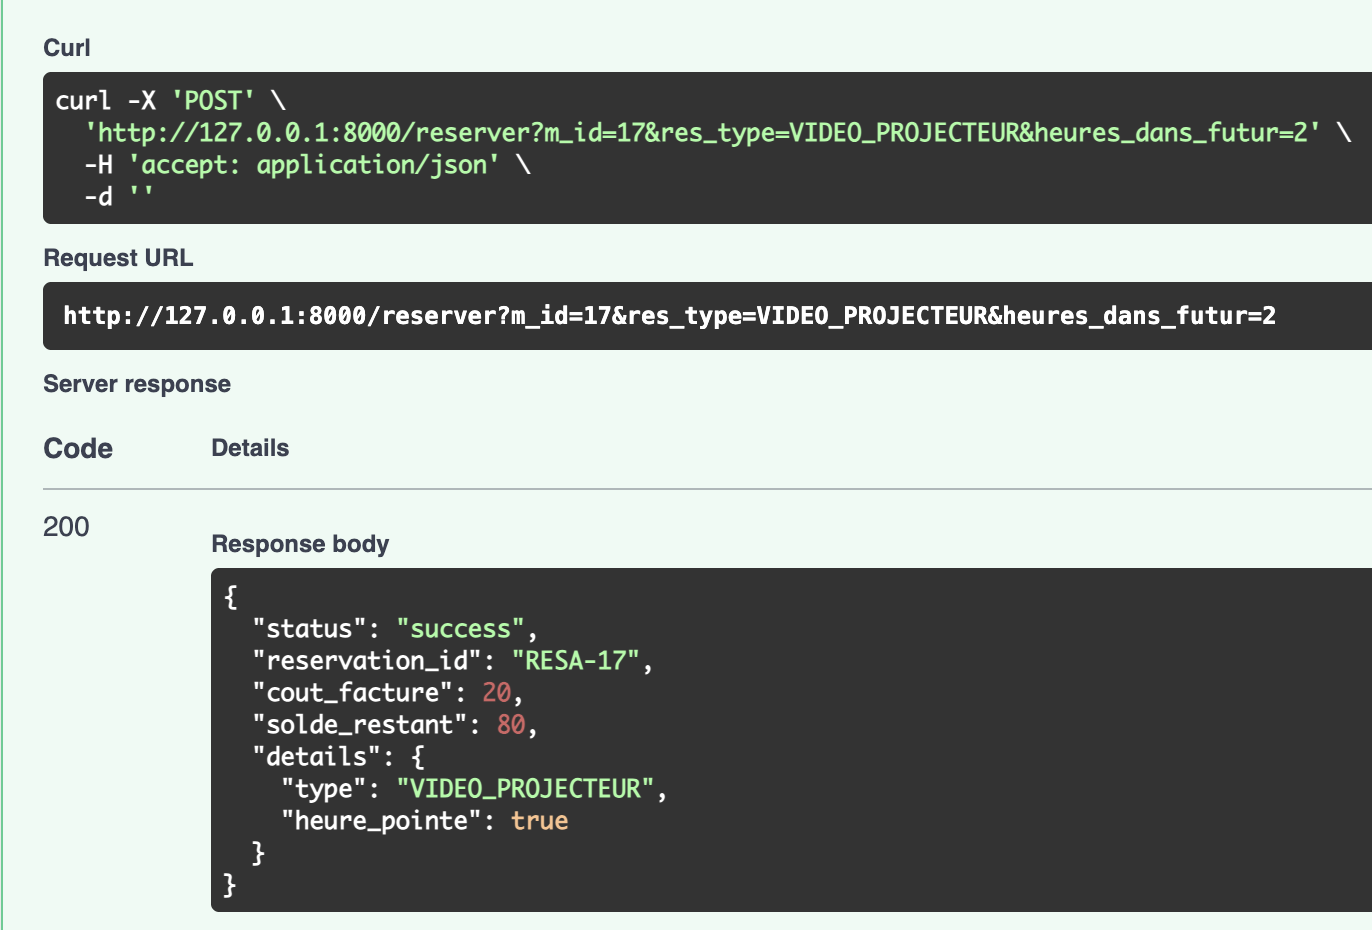
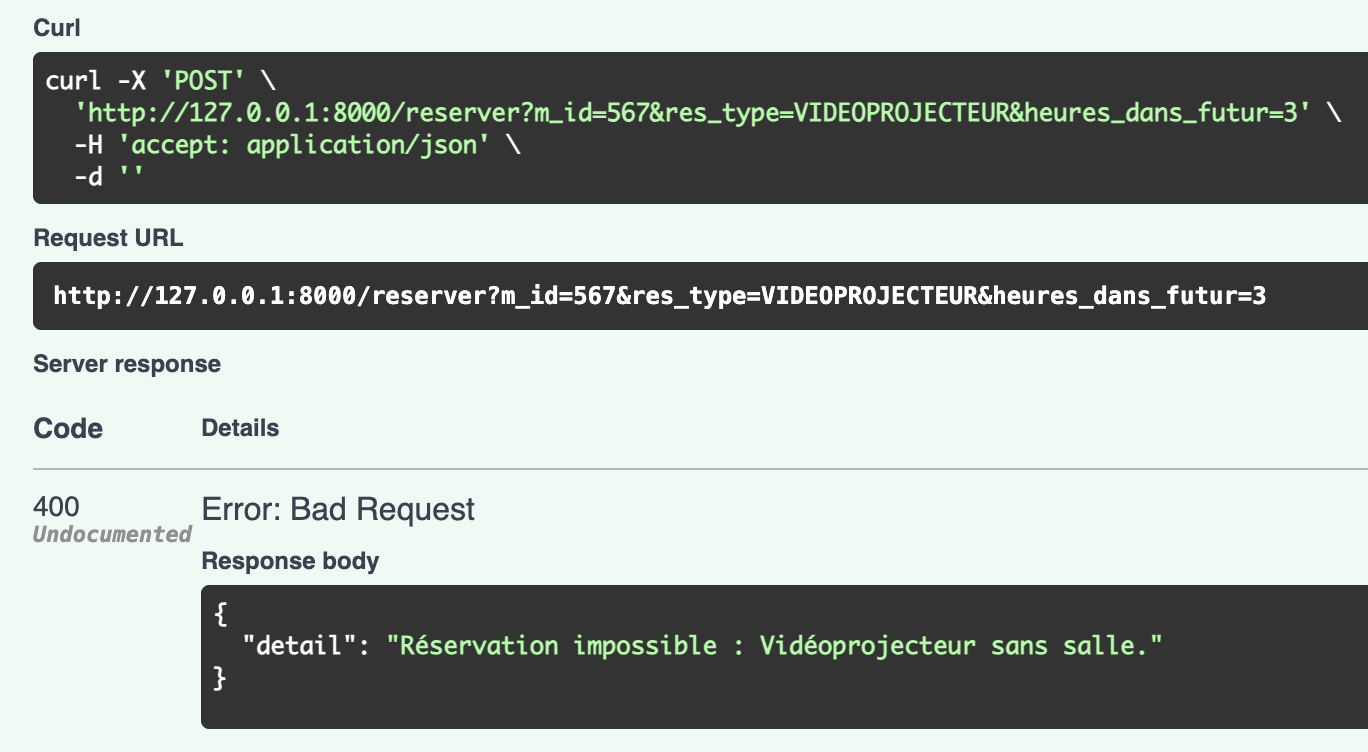
Fix: Service : raise error when unknown ressource

diff --git a/domain/services.py b/domain/services.py
@@ -2,6 +2,8 @@ class ReservationService:
     @staticmethod
     # RÈGLE MÉTIER : Un vidéoprojecteur nécessite une salle sur le même créneau
     def verifier_dependance_materiel(type_ressource, creneau, reservations_existantes):
+        if type_ressource not in ["VIDEOPROJECTEUR", "SALLE"]:
+            raise ValueError("Réservation impossible : Ressource inconnue")
         if type_ressource == "VIDEOPROJECTEUR":
             a_une_salle = any(
                 r.ressource.type == "SALLE" and r.creneau == creneau 

diff --git a/README.md b/README.md
@@ -87,6 +87,10 @@ Le projet est découpé en couches pour isoler la logique métier de l'infrastru
 
 ![Swagger Succès](captures/salleOK.png)
 
+### Blocage métier (Ressource inconnue)
+
+![Swagger Error](captures/ressourceInconnue.png)
+
 ### Blocage métier (Vidéoprojecteur seul)
 
 ![Swagger Error](captures/videoprojKO.png)
